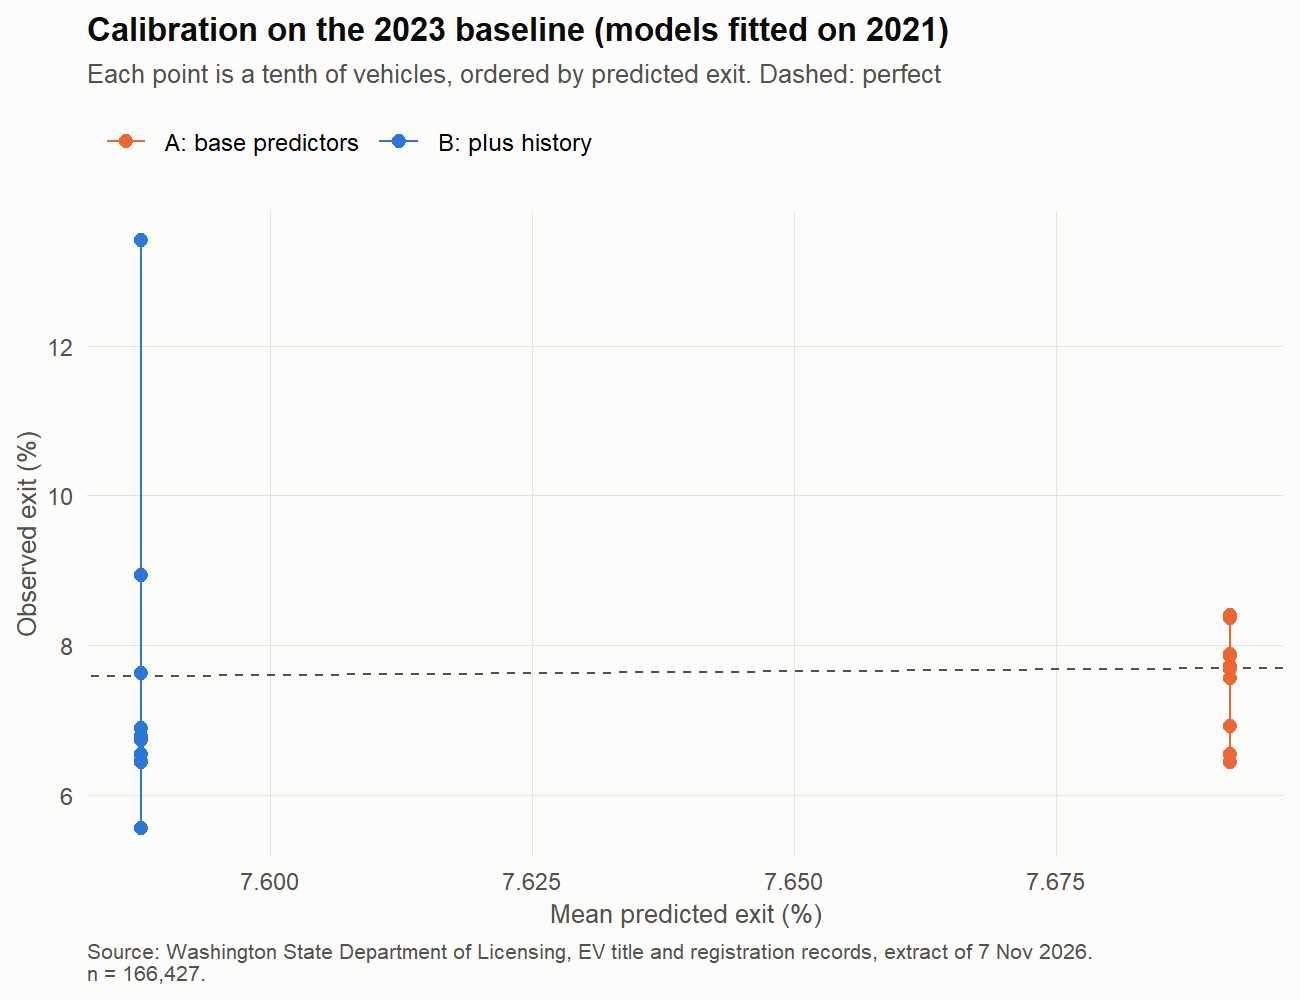
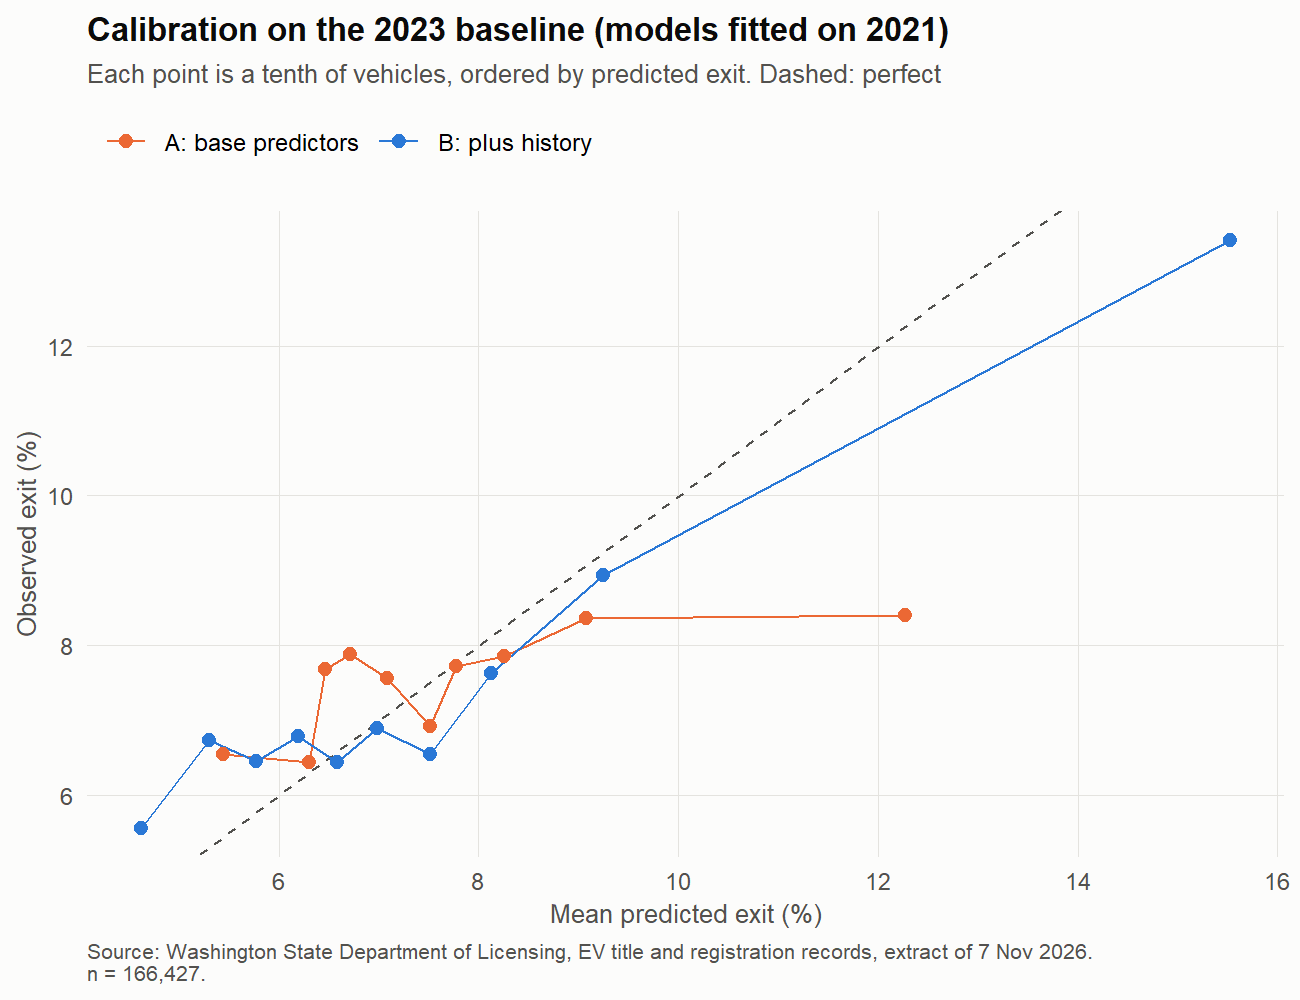
Fix logistic calibration means by decile
Compute the mean predicted probability within each decile instead of over
the full prediction vector. This regenerates 14_logistic_calibration.csv
and figure 14_05, and adds the figure to the report draft. No other output
changes.

diff --git a/DECISIONS.md b/DECISIONS.md
@@ -165,6 +165,7 @@ Several exact matches required the benchmark's own conventions, which the projec
 | Model B adds history known at the end of the baseline year: missed years, late renewals (gaps over 430 days), county moves, and the type and quarter of the last record that year | Model A, on the base predictors, is near chance. Each feature is grouped as 0, 1 or 2+ |
 | Final logistic model: lower training AIC | Set before fitting, without the test year. B is chosen (43,318 against 44,987) |
 | Optimal cut-off: Youden's J on the training data, applied to the test data | At 0.5 almost no vehicle is predicted to leave (misclassification 7.5% while detecting no leavers) |
+| Calibration: test vehicles are split into tenths by predicted probability; each tenth's mean prediction is compared with its observed exit rate | The standard calibration check. An assertion confirms ten distinct means per model |
 
 **Extensions**
 
@@ -239,6 +240,7 @@ The Cox model (hazard ratio 0.92, p ≈ 3 × 10⁻¹¹) and the main logistic te
 - At the Youden cut-off (7.7%), model B catches 40% of leavers with 70% specificity; misclassification is 32%.
 - The strongest term is the last record of the year being a title with no registration after it. Only about 470 vehicles have one, but most of them leave (odds ratio 56). Next come make, late renewals and region. County moves add nothing (p = 0.62).
 - All generalised VIFs are low (adjusted GVIF ≤ 1.66).
+- **Calibration:** both models match the overall exit rate (7.7% and 7.6% predicted against 7.5% observed). Model B's tenths range from 5.6% to 13.4% observed and follow the diagonal except at the top (15.5% predicted against 13.4%). Model A's tenths span only 6.4–8.4% observed, and its top tenth predicts 12.3% against 8.4%.
 - **Why discrimination stays weak:** removing exits that later returned barely changes the AUC (0.563 to 0.555), so label noise is not the cause. The usual causes of leaving (moving out of state, a crash, export) leave no trace in the records beforehand. This is a limit of the data.
 - With history added, the PHEV odds ratio is 0.82 (0.75 to 0.90). The main retention test (age-only adjustment) is unchanged.
 
